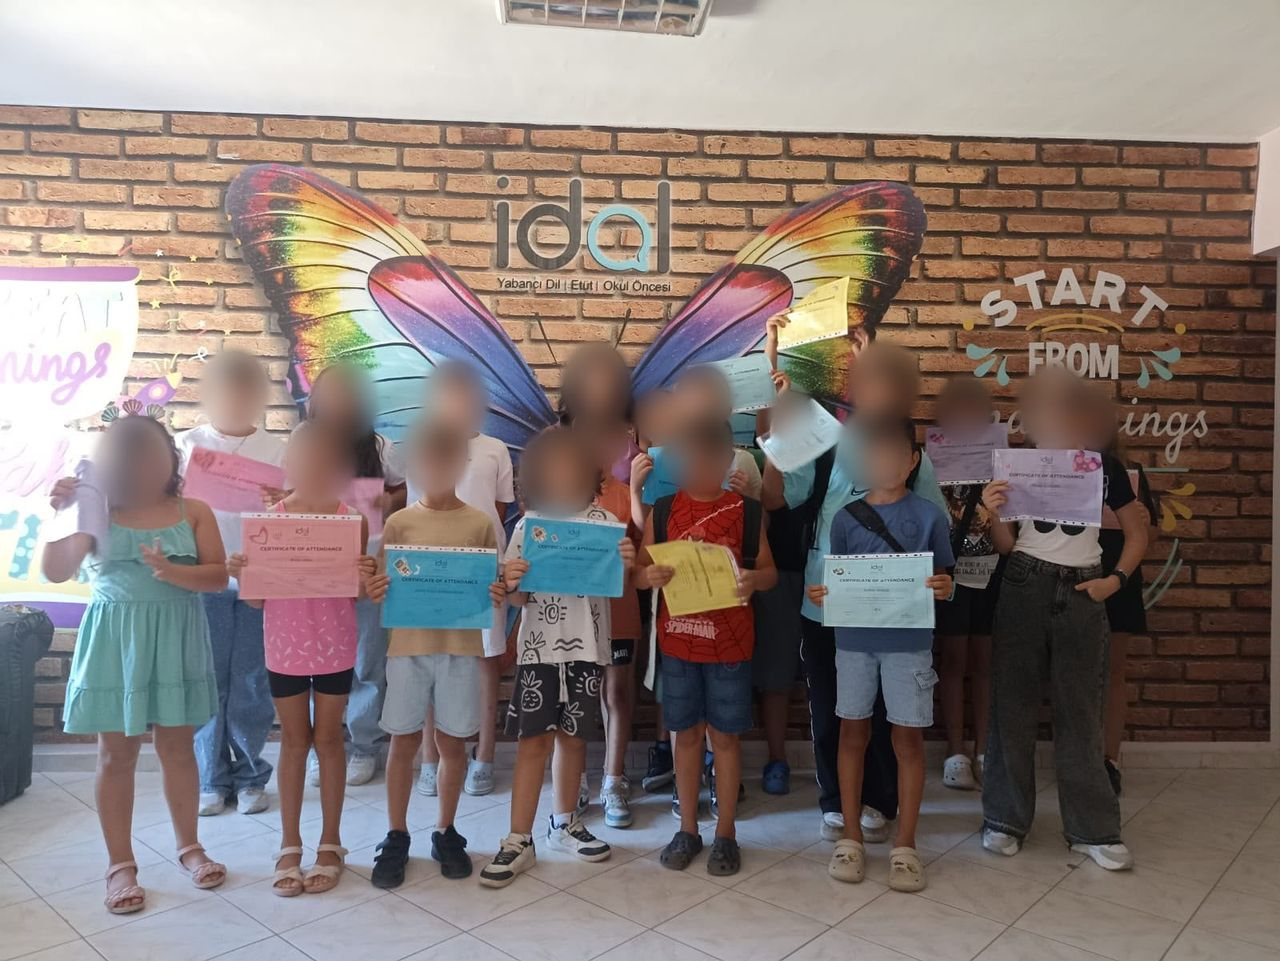
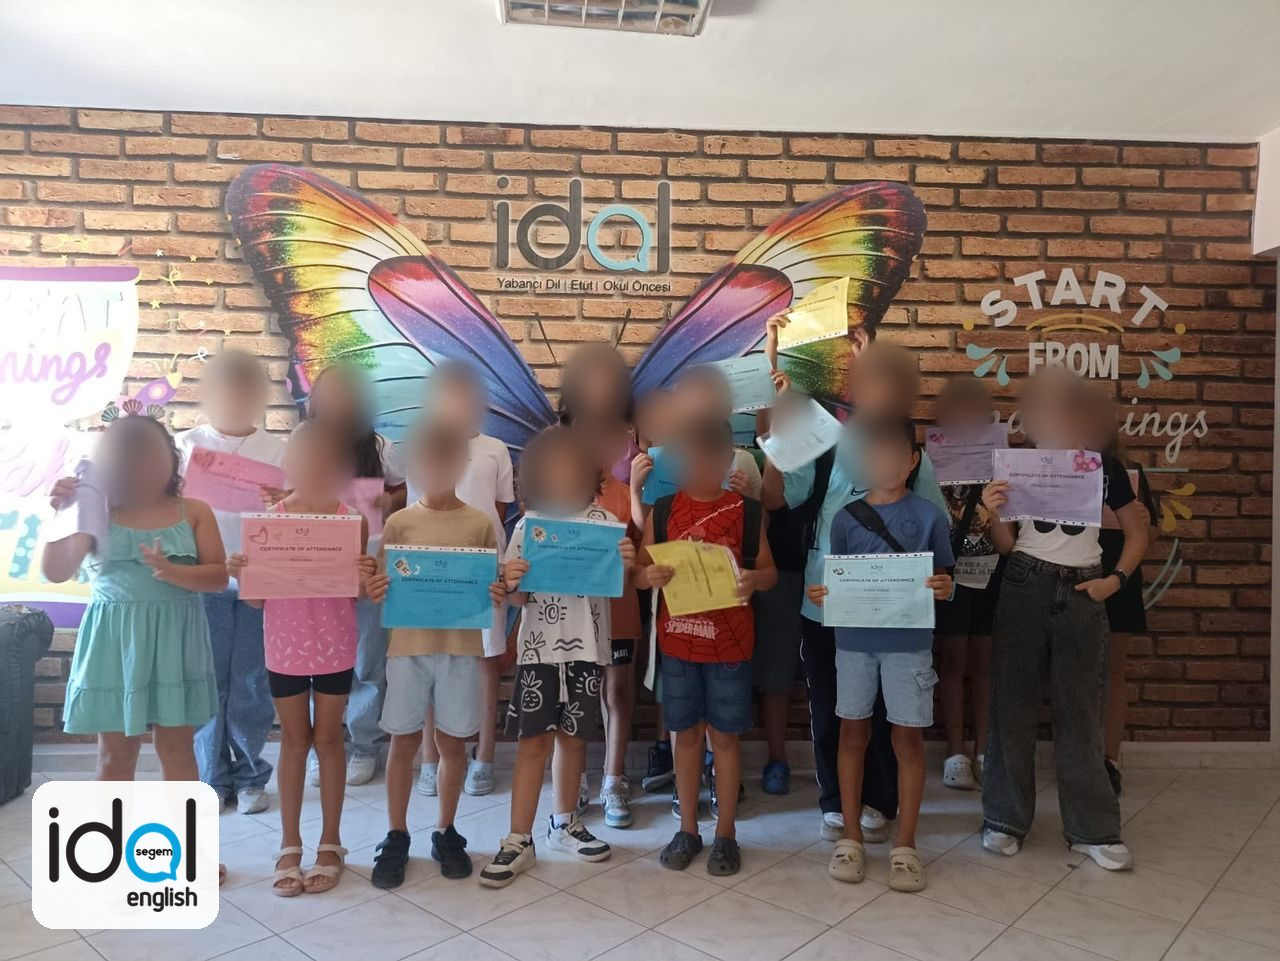
Kamp ve AHOB fotoğraflarının sol altına İDOL logosu eklendi
Claude-Session: https://claude.ai/code/session_01B6DwxAu18PPzdQJtfDyETc

Changed region(s): [[0.0, 0.8117, 0.1875, 0.9677]]

diff --git a/index.html b/index.html
@@ -724,6 +724,7 @@ ul.son-saat b{font-weight:700}
 .galeri-oge span{position:absolute; left:0; right:0; bottom:0; padding:34px 16px 13px; text-align:left; color:#fff; font-size:14px; font-weight:700; background:linear-gradient(transparent,rgba(4,38,60,.82))}
 .galeri-oge:focus-visible{outline:3px solid var(--turkuaz); outline-offset:2px}
 .galeri-grid{grid-auto-flow:dense}
+.galeri-oge.logolu span{padding-left:calc(18.5% + 10px)}
 @media(min-width:821px){ .galeri-oge.genis{grid-column:span 2; aspect-ratio:auto} }
 @media(max-width:820px){ .galeri-oge.genis{grid-column:1/-1; aspect-ratio:2/1} }
 .not-baslik{margin-top:48px; font-size:22px; font-weight:800}
@@ -3122,11 +3123,11 @@ yonlendir();
    satır ekleyin. Sıra, sitedeki sırayı belirler.
 ------------------------------------------------------------------- */
 const GALERI = [
-  {src:'foto/galeri-sinif-calismasi.jpg',    yazi:'Sınıfta İngilizce çalışması'},
-  {src:'foto/ana-sayfa.jpg',                 yazi:'İngilizce etkinliği: katılım belgesi töreni'},
+  {src:'foto/galeri-sinif-calismasi.jpg', logo:true,    yazi:'Sınıfta İngilizce çalışması'},
+  {src:'foto/ana-sayfa.jpg', logo:true,                 yazi:'İngilizce etkinliği: katılım belgesi töreni'},
   {src:'foto/galeri-dil-laboratuvari.jpg', genis:true,   yazi:'Bilgisayarlı dil laboratuvarımız'},
-  {src:'foto/galeri-akilli-tahta.jpg',       yazi:'Akıllı tahtalı sınıfımız'},
-  {src:'foto/galeri-basari-sertifikasi.jpg', yazi:'AHOB başarı sertifikası'},
+  {src:'foto/galeri-akilli-tahta.jpg', logo:true,       yazi:'Akıllı tahtalı sınıfımız'},
+  {src:'foto/galeri-basari-sertifikasi.jpg', logo:true, yazi:'AHOB başarı sertifikası'},
   {src:'foto/galeri-bekleme-alani.jpg', genis:true,      yazi:'Merkezimizin bekleme alanı'},
   {src:'foto/galeri-tanitim-standi.jpg',     yazi:'Tanıtım standımız'},
   {src:'foto/galeri-merdiven.jpg',           yazi:'İngilizce sloganlı merdivenlerimiz'},
@@ -3150,7 +3151,7 @@ const NOTLAR = [
   const kutular = document.querySelectorAll('[data-galeri]');
   if(!GALERI.length){ kutular.forEach(k=>{ const b=k.closest('[data-bolum="galeri"]'); if(b) b.hidden=true; }); }
   const icerik = GALERI.map((g,i)=>
-    `<button type="button" class="galeri-oge${g.genis?' genis':''}" data-galeri-sira="${i}" aria-label="${kacar(g.yazi)} - büyüt">`+
+    `<button type="button" class="galeri-oge${g.genis?' genis':''}${g.logo?' logolu':''}" data-galeri-sira="${i}" aria-label="${kacar(g.yazi)} - büyüt">`+
     `<img src="${kacar(g.src)}" alt="${kacar(g.yazi)}" loading="lazy" decoding="async"><span>${kacar(g.yazi)}</span></button>`).join('');
   kutular.forEach(k=>{ k.innerHTML = icerik; });
   const isik=document.getElementById('isik'), img=document.getElementById('isik-img'), yazi=document.getElementById('isik-yazi');
